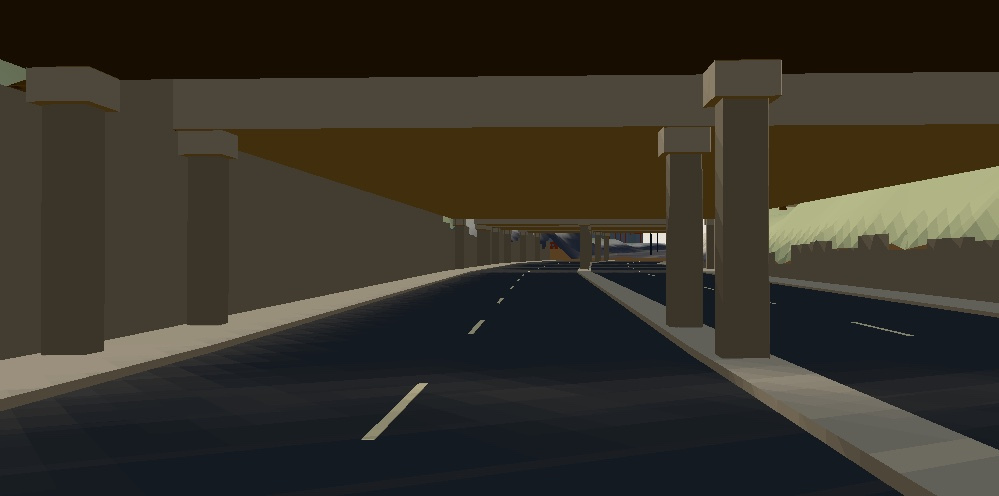
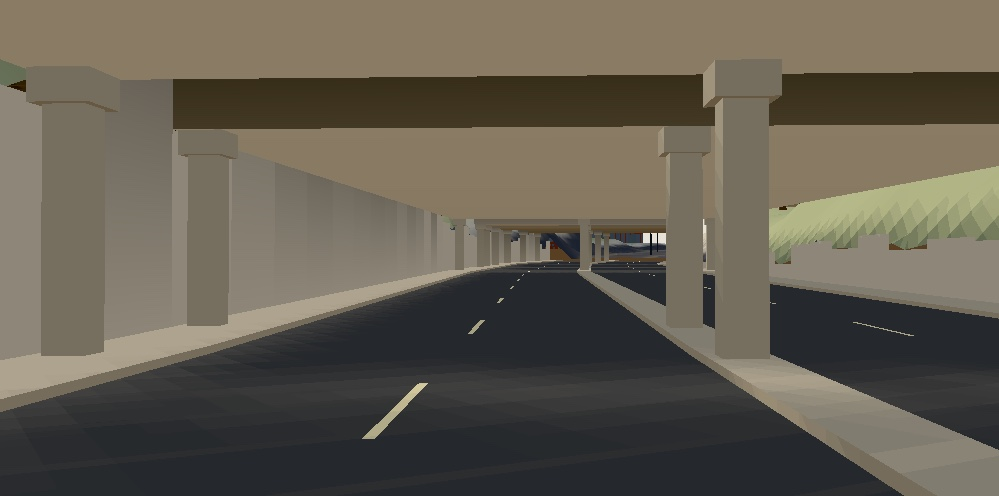
Carry ballast across the cover and keep trench walls behind the rails

diff --git a/web/src/terrain/north-ave.ts b/web/src/terrain/north-ave.ts
@@ -57,41 +57,104 @@ export function northAveRoadHeight(x:number,z:number,run: Pick<TransportRun,'nam
   if(run.name==='Marietta Street Northwest' && s>=0 && s<=19 && Math.abs(t)<=11.3) return 302.32-zero;
   return null;
 }
-/** Appends to the existing structural batch: no new material, texture or draw. */
+/** One structural batch for the five covers, their supports and the divided road. */
 export function drawNorthAve(city:TerrainCity, grid:GroundGrid, out:Builder) {
   if(!hasNorthAve(city))return;
   const zero=grid.manifest.vertical.sceneZeroNavd88M;
   const p=(s:number,t:number,h:number)=>{const [x,z]=northAvePoint(s,t);return [x,h-zero,z];};
   const quad=(a:number[],b:number[],c:number[],d:number[],color:string)=>out.quad(a,b,c,d,color);
-  function slab(a:number,b:number,l:number,r:number,top:(s:number,t:number)=>number,bottom:(s:number,t:number)=>number,color:string){
+  function slab(a:number,b:number,l:number,r:number,top:(s:number,t:number)=>number,bottom:(s:number,t:number)=>number,color:string,soffit=color){
     const vs=[[a,l],[b,l],[b,r],[a,r]],hi=vs.map(([s,t])=>p(s,t,top(s,t))),lo=vs.map(([s,t])=>p(s,t,bottom(s,t)));
-    quad(hi[3],hi[2],hi[1],hi[0],color);quad(lo[0],lo[1],lo[2],lo[3],color);
+    quad(hi[3],hi[2],hi[1],hi[0],color);quad(lo[0],lo[1],lo[2],lo[3],soffit);
     for(let i=0;i<4;i++){const j=(i+1)%4;quad(lo[i],lo[j],hi[j],hi[i],color);}
   }
   // Low road and sidewalks continue through every opening; centre strip reserves pier space.
-  for(let a=-12;a<168;a+=4){const b=Math.min(168,a+4);
+  // Split the pavement only where its grade or mapped direction changes.
+  for(const [a,b] of [[-12,20],[20,80],[80,128],[128,168]]) {
     quad(p(a,11.3,northAveFloor(a)+.04),p(b,11.3,northAveFloor(b)+.04),p(b,-11.3,northAveFloor(b)+.04),p(a,-11.3,northAveFloor(a)+.04),'#525354');
     for(const [l,r] of [[-11.3,-9],[9,11.3],[-.55,.55]]){
       quad(p(a,r,northAveFloor(a)+.18),p(b,r,northAveFloor(b)+.18),p(b,l,northAveFloor(b)+.18),p(a,l,northAveFloor(a)+.18),'#aaa394');
       for(const t of [l,r])quad(p(a,t,northAveFloor(a)+.04),p(b,t,northAveFloor(b)+.04),p(b,t,northAveFloor(b)+.18),p(a,t,northAveFloor(a)+.18),'#aaa394');
     }
-    for(const t of [-4.7,4.7])if((a+12)%12<4)slab(a,b,t-.06,t+.06,s=>northAveFloor(s)+.05,s=>northAveFloor(s)+.04,'#d4cba7');
+  }
+  for(let a=-12;a<168;a+=4){const b=Math.min(168,a+4);
+    for(const t of [-4.7,4.7])if((a+12)%12<4)
+      quad(p(a,t+.06,northAveFloor(a)+.05),p(b,t+.06,northAveFloor(b)+.05),
+        p(b,t-.06,northAveFloor(b)+.05),p(a,t-.06,northAveFloor(a)+.05),'#d4cba7');
     for(const t of [-11.3,11.3]){
       const [x,z]=northAvePoint((a+b)/2,t),h=grid.sample(x,z);if(h===null)continue;
-      const top=Math.max(h,northAveFloor(a)+.2,northAveFloor(b)+.2);
-      quad(p(a,t,northAveFloor(a)),p(b,t,northAveFloor(b)),p(b,t,top),p(a,t,top),'#9c978a');
+      // Raw DEM at the bank includes the deviating track grade. Terminate the
+      // retaining wall inside the rail cover so its crest cannot pierce a tread.
+      const inRailCover = a >= 24 && b <= 86;
+      const top = inRailCover ? Math.min(h,northAveRail(t)-.7)
+        : Math.max(h,northAveFloor(a)+.2,northAveFloor(b)+.2);
+      quad(p(a,t,northAveFloor(a)),p(b,t,northAveFloor(b)),p(b,t,top),p(a,t,top),'#c7c2b5');
     }
   }
   for(const [i,[a,b]] of NORTH_AVE.groups.entries()){
-    const top=(s:number,t:number)=>i===0?302.32:i===1?northAveRail(t)-.45:[0,0,304.24,304.03,304.52][i];
+    const top=(s:number,t:number)=>i===0?302.32:i===1?northAveRail(t)-.65:[0,0,304.24,304.03,304.52][i];
     const underside=(s:number)=>northAveFloor(s)+.04+(i===0?4.69:4.5);
-    slab(a,b,-11.3,11.3,top,underside,i===0?'#525354':'#a9a396');
+    slab(a,b,-11.3,11.3,top,underside,i===0?'#525354':i===1?'#726b5c':'#a9a396','#d5d1c3');
+    if(i===1){
+      // Take a cross-section through the actual mapped tracks at each bank. Carry
+      // the bed between tracks at their formation heights, below the textured treads.
+      const tracks=(city.terrainTransport?.rail ?? []).map(run=>({
+        points:run.pts.map(([x,z])=>northAveLocal(x,z)), grade:northAveRailProfile(run,grid),
+      }));
+      const section=(t:number)=>{
+        const centers:{s:number;h:number}[]=[];
+        for(const track of tracks){
+          for(let j=1;j<track.points.length;j++){
+            const [s0,t0]=track.points[j-1],[s1,t1]=track.points[j];
+            if(t0===t1 || (t-t0)*(t-t1)>0)continue;
+            const s=s0+(s1-s0)*(t-t0)/(t1-t0);
+            if(s<a || s>b)continue;
+            const [x,z]=northAvePoint(s,t);
+            const h=track.grade(x,z,null);
+            if(h!==null)centers.push({s,h:h+zero});
+          }
+        }
+        centers.sort((u,v)=>u.s-v.s);
+        if(!centers.length)return [];
+        const left=centers[0],right=centers[centers.length-1];
+        // Only the running corridor has an exposed gravel shoulder. The wider
+        // surveyed cover continues below the earth beside it.
+        return [[a,top(a,t)+.02],[left.s-3.35,left.h-.12],[left.s-2.25,left.h+.005],
+          ...Array.from({length:9},(_,j)=>{
+            const s=left.s+(right.s-left.s)*j/8;
+            const upper=centers.find(c=>c.s>=s)??right,lower=centers.slice().reverse().find(c=>c.s<=s)??left;
+            const f=upper.s===lower.s?0:(s-lower.s)/(upper.s-lower.s);
+            return [s,lower.h+(upper.h-lower.h)*f+.005];
+          }),[right.s+2.25,right.h+.005],[right.s+3.35,right.h-.12],[b,top(b,t)+.02]];
+      };
+      let previous:number[][]=[];
+      let previousT = -11.3;
+      for(const t of [-11.3,-6,0,6,11.3,13.5]){
+        const row=section(t);
+        const outside = Math.max(0,Math.abs(t)-11.3);
+        if(outside){
+          // A short sloped toe closes the abutment edge below the continuing
+          // tracks while the bank still lies below the formation.
+          for(const vertex of row) vertex[1] -= outside * .08;
+        }
+        for(let j=1;j<row.length && previous.length;j++){
+          // Extend only the ballast shoulder onto the bank. Its taper bridges the
+          // DEM dip without extending the deck or its earth margins into the yard.
+          if ((outside || Math.abs(previousT)>11.3) && (j===1 || j===row.length-1)) continue;
+          const color=j===1||j===row.length-1?'#b2b589':j===2||j===row.length-2?'#877d6a':'#7e7363';
+          quad(previous[j-1],p(row[j-1][0],t,row[j-1][1]),
+            p(row[j][0],t,row[j][1]),previous[j],color);
+        }
+        previousT=t;
+        previous=row.map(([s,h])=>p(s,t,h));
+      }
+    }
     if(i===0){
       for(const t of [-9,-3,3,9])slab(9.45,9.55,t-1.5,t+1.5,()=>302.33,()=>302.32,'#d4cba7');
     }
     // Two road bays: columns occupy only the reserved median, with wall abutments outside shoulders.
     for(const s of [a+.6,b-.6]) for(const t of [0,-10.7,10.7]) {
-      slab(s-.35,s+.35,t-.35,t+.35,underside,q=>northAveFloor(q)+.18,'#918c80');
+      slab(s-.35,s+.35,t-.35,t+.35,underside,q=>northAveFloor(q)+.18,'#aca798');
       slab(s-.55,s+.55,t-.5,t+.5,underside,q=>underside(q)-.55,'#aaa496');
     }
     // Balustrade on Marietta; pipe-like narrow bars on the rail/disused decks.

diff --git a/web/src/terrain/transport.ts b/web/src/terrain/transport.ts
@@ -537,11 +537,12 @@ export function createSurfaceTransport(city: TerrainCity, grid: GroundGrid, terr
     draw(from ? {...road,pts:road.pts.slice(from),deckNavd88M:road.deckNavd88M?.slice(from),deckWeight:road.deckWeight?.slice(from)} : road,'road',road);
   }
   for (const r of data.rail) if (!r.replaced) draw(r, r.cls === 'tram' ? 'tram' : 'freight');
-  drawNorthAve(city,grid,structures);
+  const underpass = new Builder();
+  drawNorthAve(city, grid, underpass);
   const map = freightTexture();
   const meshes: THREE.Mesh<THREE.BufferGeometry, THREE.MeshLambertMaterial>[] = [];
   const bridgeNight = { value: 0 };
-  for (const [builder, name] of [[structures, 'Decks and embedded rails'], [seventeenth, '17th Street Bridge'], [freight, 'Freight track']] as const) {
+  for (const [builder, name] of [[structures, 'Decks and embedded rails'], [seventeenth, '17th Street Bridge'], [underpass, 'North Avenue underpass'], [freight, 'Freight track']] as const) {
     if (!builder.pos.length) continue;
     const geometry = builder.geometry();
     const isFreight = builder === freight;
@@ -549,7 +550,7 @@ export function createSurfaceTransport(city: TerrainCity, grid: GroundGrid, terr
     if (builder === structures) structurePositions = geometry.getAttribute('position') as THREE.BufferAttribute;
     if (isFreight) geometry.setAttribute('uv', new THREE.Float32BufferAttribute(uv, 2));
     const material = new THREE.MeshLambertMaterial({ vertexColors: true, side: THREE.DoubleSide,
-      map: isFreight ? map : null, polygonOffset: true, polygonOffsetFactor: -1, polygonOffsetUnits: -2 });
+      map: isFreight ? map : null, polygonOffset: builder !== underpass, polygonOffsetFactor: -1, polygonOffsetUnits: -2 });
     if (builder === seventeenth) {
       // Contractor night photographs show lit steel and pier faces. Fill the
       // vertex colours locally without adding point lights to the whole City.
@@ -568,6 +569,21 @@ export function createSurfaceTransport(city: TerrainCity, grid: GroundGrid, terr
           'outgoingLight += diffuseColor.rgb * vec3(.54, .40, .25) * bridgeNight * bridgeSpill;\n#include <opaque_fragment>');
       };
     }
+    if (builder === underpass) {
+      // Diffuse daylight bounced from the two mouths keeps the shaded pavement
+      // and soffits legible. The walls use true depth: slope-based polygon
+      // offset can pull an edge-on wall in front of the tracks above it.
+      material.onBeforeCompile = shader => {
+        shader.uniforms.northAveCeiling = { value: 302.3 - sceneZero };
+        shader.uniforms.northAveNight = bridgeNight;
+        shader.vertexShader = 'uniform float northAveCeiling; varying float northAveBounce;\n' +
+          shader.vertexShader.replace('#include <begin_vertex>', `#include <begin_vertex>
+            northAveBounce = 1.0 - smoothstep(northAveCeiling - .6, northAveCeiling, position.y);`);
+        shader.fragmentShader = 'uniform float northAveNight; varying float northAveBounce;\n' +
+          shader.fragmentShader.replace('#include <opaque_fragment>', `outgoingLight += diffuseColor.rgb * vec3(.24,.23,.21) * northAveBounce * (1.0 - northAveNight);
+            #include <opaque_fragment>`);
+      };
+    }
     const mesh = new THREE.Mesh(geometry, material);
     if (builder === structures && buriedFaces) mesh.userData.groundAuditBuriedFaces = buriedFaces;
     mesh.name = name;
@@ -580,13 +596,13 @@ export function createSurfaceTransport(city: TerrainCity, grid: GroundGrid, terr
   cutting.push(...footbridgeYields);
   // The mesh attributes now own their copies. Drop build-time arrays held by the transport closures.
   const hasBridge = seventeenth.pos.length > 0;
-  for (const builder of [structures, seventeenth, freight]) {
+  for (const builder of [structures, seventeenth, freight, underpass]) {
     builder.pos.length = 0;
     builder.col.length = 0;
   }
   uv.length = 0;
   return { group, freightTreads, deckAt, clearOfFreight, cutting, structuralTier: 'illustrative',
-    setNight: hasBridge ? factor => { bridgeNight.value = factor; } : undefined, dispose() {
+    setNight: (northAve || hasBridge) ? factor => { bridgeNight.value = factor; } : undefined, dispose() {
     group.removeFromParent();
     for (const mesh of meshes) { mesh.geometry.dispose(); mesh.material.dispose(); }
     map.dispose();

diff --git a/web/src/terrain/ground-contact.test.ts b/web/src/terrain/ground-contact.test.ts
@@ -64,12 +64,12 @@ it.each(['high', 'low'] as const)('keeps the drawn terrain under ground-hugging 
     const zero = grid('midtown-south').manifest.vertical.sceneZeroNavd88M;
     expect(roadHeight(...position, lower)).toBeCloseTo(296.64 - zero);
     expect(roadHeight(...position, upper)).toBeCloseTo(302.32 - zero);
-    const decks = south.group.getObjectByName('Decks and embedded rails')!;
+    const decks = south.group.getObjectByName('North Avenue underpass')!;
     const crossing = groundAudit(decks, [{ id: 'midtown-south', bounds: south.bounds, terrainAt: south.terrainAt, terrain: [south.board] }], {
       colors: CITY_COLORS, layer: () => 'structures',
       exclude: (_layer, x, z) => {
         const [s, t] = northAveLocal(x, z);
-        return s < -12 || s > 168 || Math.abs(t) > 12;
+        return s < -12 || s > 168 || Math.abs(t) > 23;
       },
     });
     expect(crossing.layers.reduce((sum, layer) => sum + layer.samples, 0)).toBeGreaterThan(0);

diff --git a/web/src/terrain/ground-audit.ts b/web/src/terrain/ground-audit.ts
@@ -73,7 +73,7 @@ export function cityLayer(path: string[], mesh: THREE.Mesh): string | null {
   if (names.includes('ground-cover')) return 'ground cover';
   const curated = names.find(n => n.startsWith('curated:'));
   if (curated) return 'curated landscape';
-  if (names.includes('Decks and embedded rails')) return 'streets';
+  if (names.includes('Decks and embedded rails') || names.includes('North Avenue underpass')) return 'streets';
   if (names.includes('Freight track')) return 'rail ballast';
   if (names.includes('Atlanta Streetcar track')) return 'streetcar track';
   const own = defaultLayer(path, mesh);

diff --git a/docs/build-log.md b/docs/build-log.md
@@ -3050,7 +3050,7 @@ Five cover groups now follow the survey along North Avenue. Lowering the road al
 left a dip in the freight tracks. Carrying the tracks between approach elevations
 removed the dip, and lowering the active slab beneath the ballast kept all tracks
 visible. At the same low-tier daylight camera the change took City from 1,595,963
-to 1,600,830 triangles and held at 83 draws. The western carriageways bend away
+to 1,600,242 triangles and from 83 to 84 draws. The western carriageways bend away
 from the straight lidar transect, so the trench bends with them.
 
 The [day before](log/north-ave-before-day.jpg), [day after](log/north-ave-after-day.jpg),
@@ -3058,3 +3058,16 @@ The [day before](log/north-ave-before-day.jpg), [day after](log/north-ave-after-
 use City camera `-783,-1860,235,55,350` at 14:00 and 23:00 Eastern on November 20.
 The [under-deck view](log/north-ave-under-deck.jpg) uses scene eye
 `-762.5,-25.5,-1881.5`, target `-797,-25,-1860`, zoom 0.75 and near plane 0.05 m.
+
+### 2026-11-23 — Ballast across the North Avenue cover
+
+The dotted line across the rails survived a change in deck height. A render with
+slope-based depth offset disabled revealed the cause. Seen edge-on, the retaining
+walls could appear in front of the tracks. The five covers now share one draw at
+their actual depth. A gravel bed follows the crossing tracks, with earth over the
+wider covered area and a little reflected daylight in the trench.
+
+Compare the [earlier overview](https://github.com/samsolomon/sim-atlanta/blob/030d123f/docs/log/north-ave-after-day.jpg)
+and [earlier under-deck view](https://github.com/samsolomon/sim-atlanta/blob/030d123f/docs/log/north-ave-under-deck.jpg)
+with the [revised overview](log/north-ave-after-day.jpg) and [revised under-deck view](log/north-ave-under-deck.jpg).
+The matched low-tier frame adds 4,279 triangles and one draw over main.

diff --git a/docs/handoffs/studio-midtown-marta.md b/docs/handoffs/studio-midtown-marta.md
@@ -6,8 +6,8 @@ The original survey and model decisions are in [North Avenue](../north-ave-under
 The [build log](../build-log.md#2026-11-23--north-avenue-reappears-beneath-the-railway)
 links the matched daytime and nighttime overviews and the under-deck view.
 Against main at 7319005e, the low-tier daylight camera measured 1,595,963 triangles
-before and 1,600,830 after, with 83 draws in each frame. The 4,867-triangle delta
-includes 392 more triangles in moving vehicles. Both tier budgets passed.
+before and 1,600,242 after, with 83 and 84 draws respectively. Sam is reviewing the revised
+ballast and underpass lighting on draft PR #361. Hold the merge for his decision. Both tier budgets passed.
 
 The rail grade test uses the actual crossing tracks. Both tiers check the rendered
 soffit and support clearance, road-specific vehicle heights and local structure
